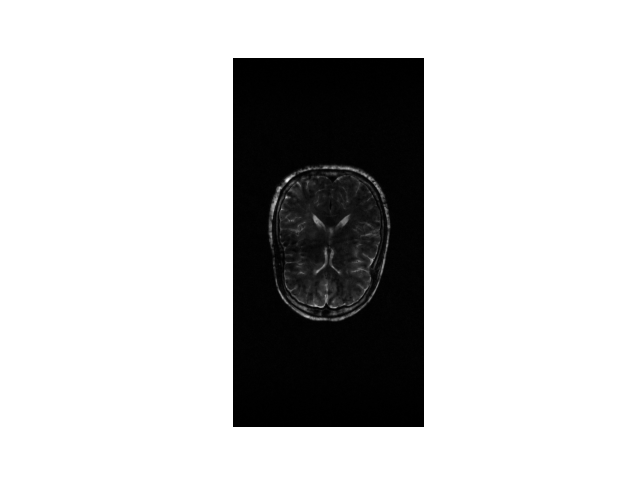
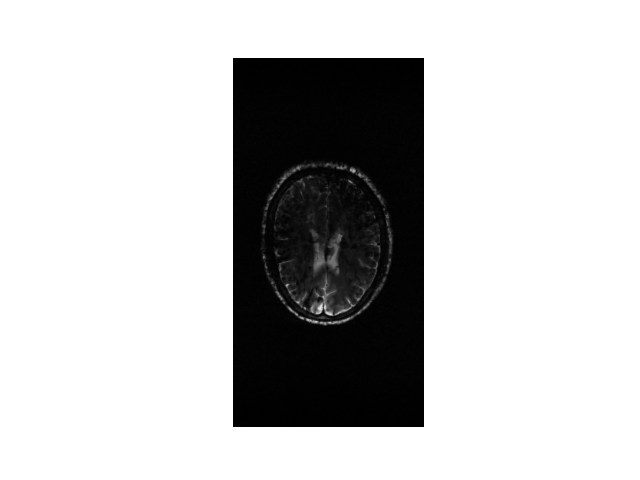
mri dataset different from cdlnet dataset

Changed region(s): [[0.4062, 0.3438, 0.625, 0.6875]]

diff --git a/my_CDLNet/sense.py b/my_CDLNet/sense.py
@@ -36,10 +36,16 @@ def main(args):
     device = torch.device("cuda:0" if ngpu > 0 else "cpu")
     print(f"Using device {device}.")
     # Take an input argument that specifies a test directory 
-    loader = data.get_data_loader([args.test], load_color=False, test=True, get_smaps = True)
+    # loader = data.get_data_loader([args.test], load_color=False, test=True, get_smaps = True)
     # Get some sample image 
-    image, smaps, slice, path = next(iter(loader))
-    fname = os.path.basename(path[0])
+    fname = 'file_brain_AXT2_210_2100095.h5'
+    slice = 3
+    #base_fname = os.path.join(args.test, fname)
+    #with h5py.File(base_fname) as f:
+    #    image = f['image'][slice, :, :]
+    #    smaps = f['smaps'][slice, :, :, :]
+    # image, smaps, slice, path = next(iter(loader))
+    # fname = os.path.basename(path[0])
     # Find the file at the kspace path
     kspace_fname = os.path.join(args.kspace_path, fname)
     with h5py.File(kspace_fname) as f:
@@ -71,7 +77,7 @@ def main(args):
     breakpoint()
     saveimg(zero_filled_recon, "test_zerofilled.png")
     saveimg(mri_recon, "test_sense.png")
-    saveimg(image, "gnd_truth.png")
+    # saveimg(image, "gnd_truth.png")
     saveimg(gnd_truth, "EHy.png")
     
 if __name__ == "__main__":
